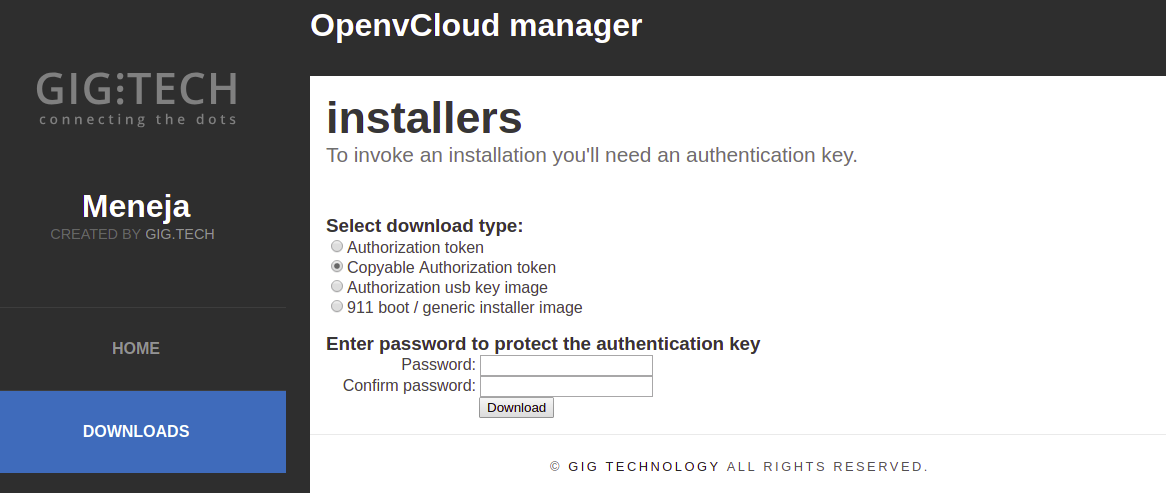
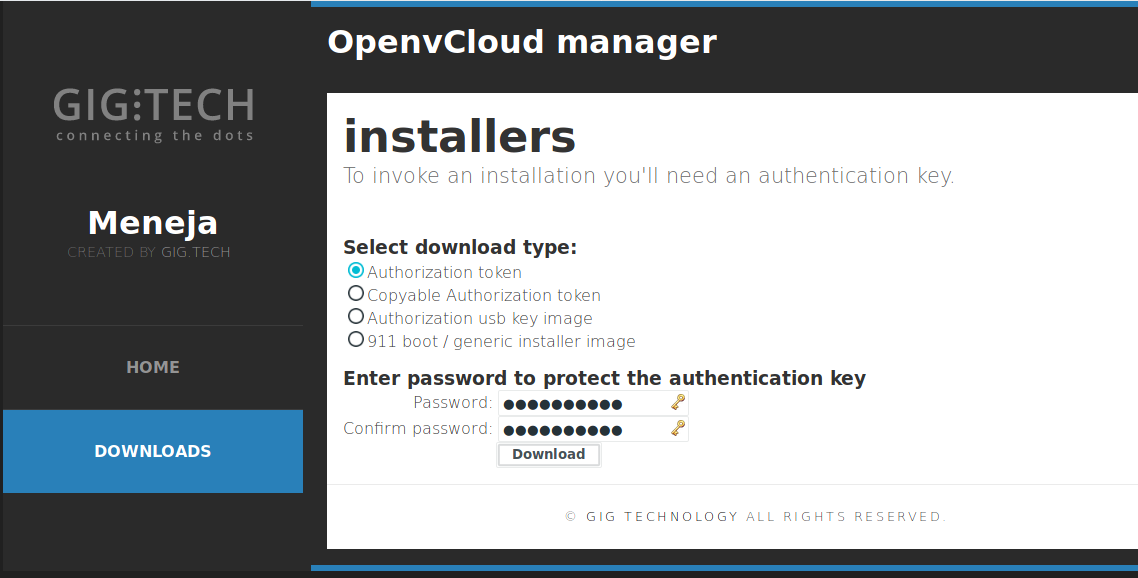
Update docs to upload meneja authorization token

diff --git a/docs/Installation/Installation.md b/docs/Installation/Installation.md
@@ -96,7 +96,17 @@ This will create a Kubernetes cluster, and deploy all OpenvCloud system containe
 
 One of these containers is the management container, through which you will be able to check the status of all other containers;discussed next.
 
+Open meneja and download the authorization token:
+
+![Meneja token](images/meneja-token.png)
+
+Save your token as `token`
+
 To connect to the controller use [teleport](../Sysadmin/Connect/teleport.md).
+
+Upload the authorization token:
+At the bottom left press the "Upload files" button, then "Select files" to select your authorization token
+![Upload token](images/teleport-upload.png)
 
 For more details about the `ìnstaller` script see [Installer Script Details](Installer-script.md).
 
@@ -112,24 +122,20 @@ The above command will result in a prompt to enter the password of the specified
 Run the following command to start the cluster installation:
 
 ```bash
-docker run -it --rm -e ENV_OVC_VERSION={version} {docker_registry}/openvcloud/ninstaller:{IMAGE VERSION}
+docker run -it --rm -e ENV_OVC_VERSION={version} -v /tmp:/tmp {docker_registry}/openvcloud/ninstaller:{IMAGE VERSION}
 ```
 
 > It is possible to specify the manifest url directly instead of the version:
 
 ```bash
-docker run -it --rm -e OVC_VERSION_URL={manifest url} {docker_registry}/openvcloud/ninstaller:{IMAGE VERSION}
+docker run -it --rm -e OVC_VERSION_URL={manifest url} -v /tmp:/tmp {docker_registry}/openvcloud/ninstaller:{IMAGE VERSION}
 ```
 
 This will result in the following prompt:
 
 ![ninstaller](images/ninstaller.png)
 
-Follow the instruction in the prompt to get the keycode:
-
-![Meneja token](images/meneja-token.png)
-
-Copy the keycode and paste it to the prompt and enter the password for that key. Select from the next menu the environment to be installed.
+Use "Select Meneja auth key file:" to navigate to your token under `/tmp/token` and enter the password for that key. Select from the next menu the environment to be installed.  
 
 ![Env select](images/env-select.png)
 
